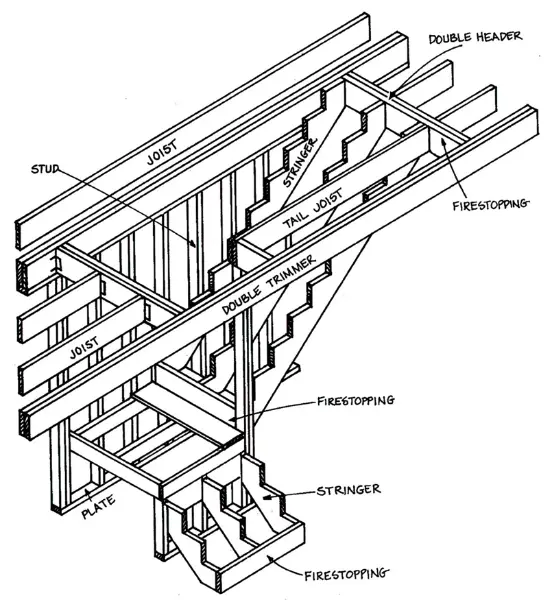
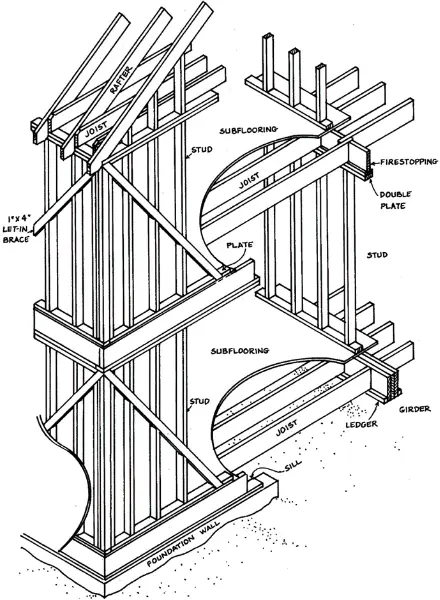
[ENVELOPPE] Merge #302
* PUSH NOTE : 2025-02-26_Module 07 Wood - Intro and Column Design.md

* PUSH ATTACHMENT : image.webp

* PUSH ATTACHMENT : image-1.webp

* PUSH ATTACHMENT : image-1-1.webp

* PUSH ATTACHMENT : image.webp

* PUSH ATTACHMENT : image-8.webp

* PUSH ATTACHMENT : image-9.webp

* PUSH ATTACHMENT : image-10.webp

* PUSH ATTACHMENT : image-11.webp

* PUSH ATTACHMENT : image-2.webp

* PUSH ATTACHMENT : image-7.webp

* PUSH ATTACHMENT : image-3.webp

* PUSH ATTACHMENT : image-6.webp

* PUSH ATTACHMENT : image-5.webp

* PUSH ATTACHMENT : image-12.webp

* PUSH ATTACHMENT : image-4.webp

* DELETE FILE : content/Periodic Notes/Atomic/2025/2025-02-26_Module 07 Wood - Intro and Column Design/2025-02-26_Module 07 Wood - Intro and Column Design.svg

diff --git a/content/Periodic Notes/Atomic/2025/2025-02-26_Module 07 Wood - Intro and Column Design/2025-02-26_Module 07 Wood - Intro and Column Design.md b/content/Periodic Notes/Atomic/2025/2025-02-26_Module 07 Wood - Intro and Column Design/2025-02-26_Module 07 Wood - Intro and Column Design.md
@@ -19,7 +19,9 @@ hide: true
 %%[parents:: [[../../../../Courses/2025/ARC2046H/ARC2046H|ARC2046H]]]%%
 # Module 07 Wood - Intro and Column Design
 
-![[./2025-02-26_Module 07 Wood - Intro and Column Design.svg|2025-02-26_Module 07 Wood - Intro and Column Design]]
+![[Periodic Notes/Atomic/2025/2025-02-26_Module 07 Wood - Intro and Column Design/2025-02-26_Module 07 Wood - Intro and Column Design.svg|Periodic Notes/Atomic/2025/2025-02-26_Module 07 Wood - Intro and Column Design/2025-02-26_Module 07 Wood - Intro and Column Design.svg]]
+
+### Properties
 
 - Wood
 	- Hardwood
@@ -50,6 +52,7 @@ hide: true
 				- 1 1/2 x 11 1/4
 			- 4x4
 				- 3 1/2 x 3 1/2
+				- 89mm x 89mm
 - Applications
 	- Joists and Studs
 	- Beams
@@ -86,9 +89,69 @@ hide: true
 	- Chemicals (Preservation, Fire Retardant)
 	- Lateral Stability (Buckling)
 - Typical Construction
-	- ![[Periodic Notes/Atomic/2025/2025-02-26_Module 07 Wood - Intro and Column Design/Attachments/2025-02-26_Module 07 Wood - Intro and Column Design/image-1.webp|223x304]]
-	- ![[./image.webp|224x388]]
-	- ![[./image-1.webp|223x304]]
+	- ![[./Attachments/2025-02-26_Module 07 Wood - Intro and Column Design/image.webp|468x260]]
+	- ![[./image-1.webp|308x466]]
+	- ![[./Attachments/2025-02-26_Module 07 Wood - Intro and Column Design/image-1-1.webp|293x399]]
+- Lumber Visual Grades
+	- Select Structural
+	- No. 1
+	- No. 2
+	- No. 3
+	- Stud
+	- ![[./image.webp|/Periodic Notes/Atomic/2025/2025-02-26_Module 07 Wood - Intro and Column Design/image.webp]]
+- Strength and Modulus of Elasticity
+	- Look up table A-D [[../../../../Courses/2025/ARC2046H/Attachments/ARC2046H/SAWN LUMBER.pdf#page=5|SAWN LUMBER, p.5]]
+		- ![[./image-8.webp|640x384]]
+		- ![[./image-9.webp|640x306]]
+		- ![[./image-10.webp|640x384]]
+		- ![[./image-11.webp|640x379]]
+	- Governed by Applications, Species, Grades
+- $K_D$: Load Duration Factor
+	- Short Term = 1.15
+	- Standard Term = 1.00
+	- Long Term = 0.65
+	- ![[./image-2.webp|640x407]]
+- $K_H$: System Factor
+	- Post / Beam: 1.0
+	- Joist / Stud: Part of a system sharing some loads
+	- ![[./image-7.webp|640x275]]
+	- Case 1 | Case 2
+		- Most floors and walls are Case 2
+		- ![[./image-3.webp|640x375]]
+- $K_S$: Service Condition Factor
+	- A pool would be wet
+	- Always 1.0 if dry
+	- ![[./image-6.webp|640x278]]
+- $K_T$: Treatment Factor
+	- Pressure treated unincised lumber doesn't lose strength
+		- Lumber bathed in a preservative solution and pressurized
+		- Incised meaning punching little holes in the lumber
+	- Fire retardant treated
+	- ![[./image-5.webp|640x403]]
+- $K_Z$: Size Factor
+	- The chances of a hidden defect becomes greater as lumber size increase
+	- Built up members use individual member size to determine size factor - better performance than if the member was full-sized
+	- ![[./image-12.webp|640x428]]
+- $P_r=\phi_c F_c A K_{zc} K_c$: **Compression Resistance Design**
+	- $\phi=0.8$: Resistance Factor for wood compression
+	- $F_c=f_c(K_D K_H K_{SC} K_T)$:
+		- $f_c$: Specified strength (stress) in compression parallel to grain, looked up from Table A-D [[../../../../Courses/2025/ARC2046H/Attachments/ARC2046H/SAWN LUMBER.pdf#page=5|SAWN LUMBER, p.5]]
+		- $K_D K_H K_{SC} K_T$: Duration, system, service condition, treatment
+	- $A$: Cross sectional area ($b\times d$ for rectangular section)
+	- $K_{ZC}=6.3(dL_d)^{-0.13}=6.3(bL_b)^{-0.13}<=1.3$: Size Factor
+	- $K_C=[1.0+\frac{F_C K_{ZC} C_C^3}{35 E_{05} K_{SE} K_T}]^{-1}$: Slenderness Factor ($\lambda$)
+	- $C_C=Appropriate (L_b/b | L_d/d) < 50$
+		- $L_b|L_d$: Effective length associated with width $b$ and depth $d$ respectively (unbraced)
+	- Wood and Steel
+		- $P_r=\phi \sigma A + Factors/Buckling$
+		- $C_r=\phi \sigma A + Factors/Buckling$
+		- Essentially the same
+	- ![[./image-4.webp|352x274]]
+
+### Calculations
+
+
+
 
 ---
 
@@ -102,16 +165,16 @@ N4KAkARALgngDgUwgLgAQQQDwMYEMA2AlgCYBOuA7hADTgQBuCpAzoQPYB2KqATLZMzYBXUtiRoIACyh
 
[1 lines of base64/hex data omitted]
 
[2 lines of base64/hex data omitted]
 
[2 lines of base64/hex data omitted]
 
[2 lines of base64/hex data omitted]
 
[2 lines of base64/hex data omitted]
 
[2 lines of base64/hex data omitted]
 
[2 lines of base64/hex data omitted]
 ```
 %%
